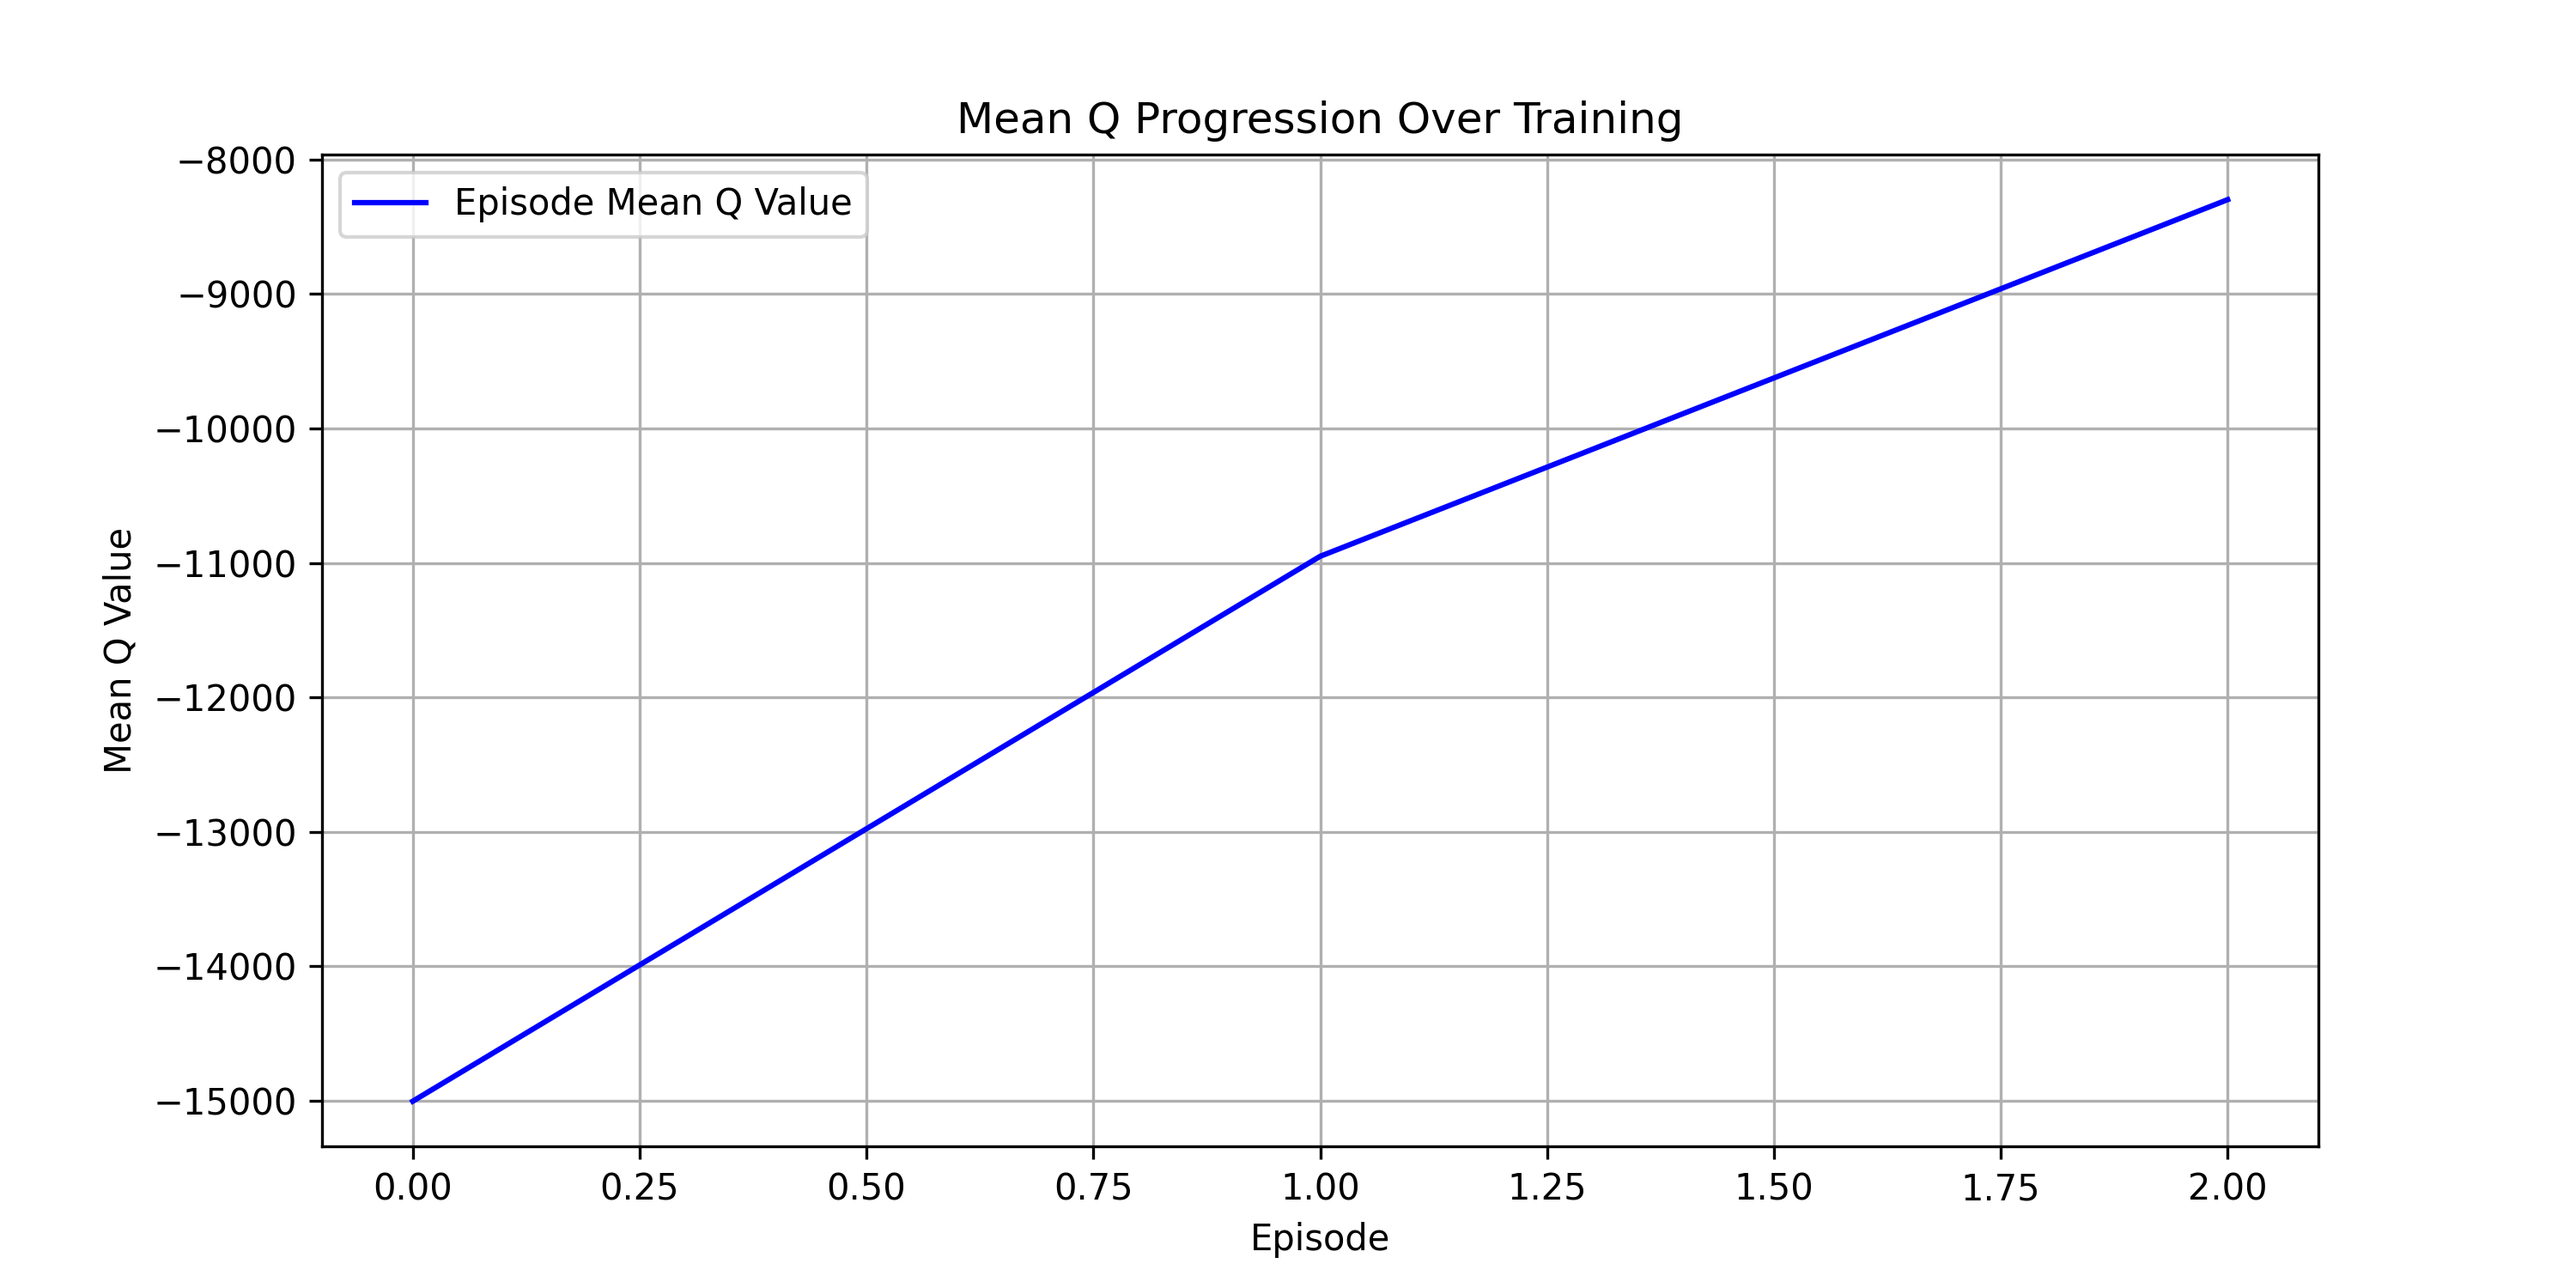
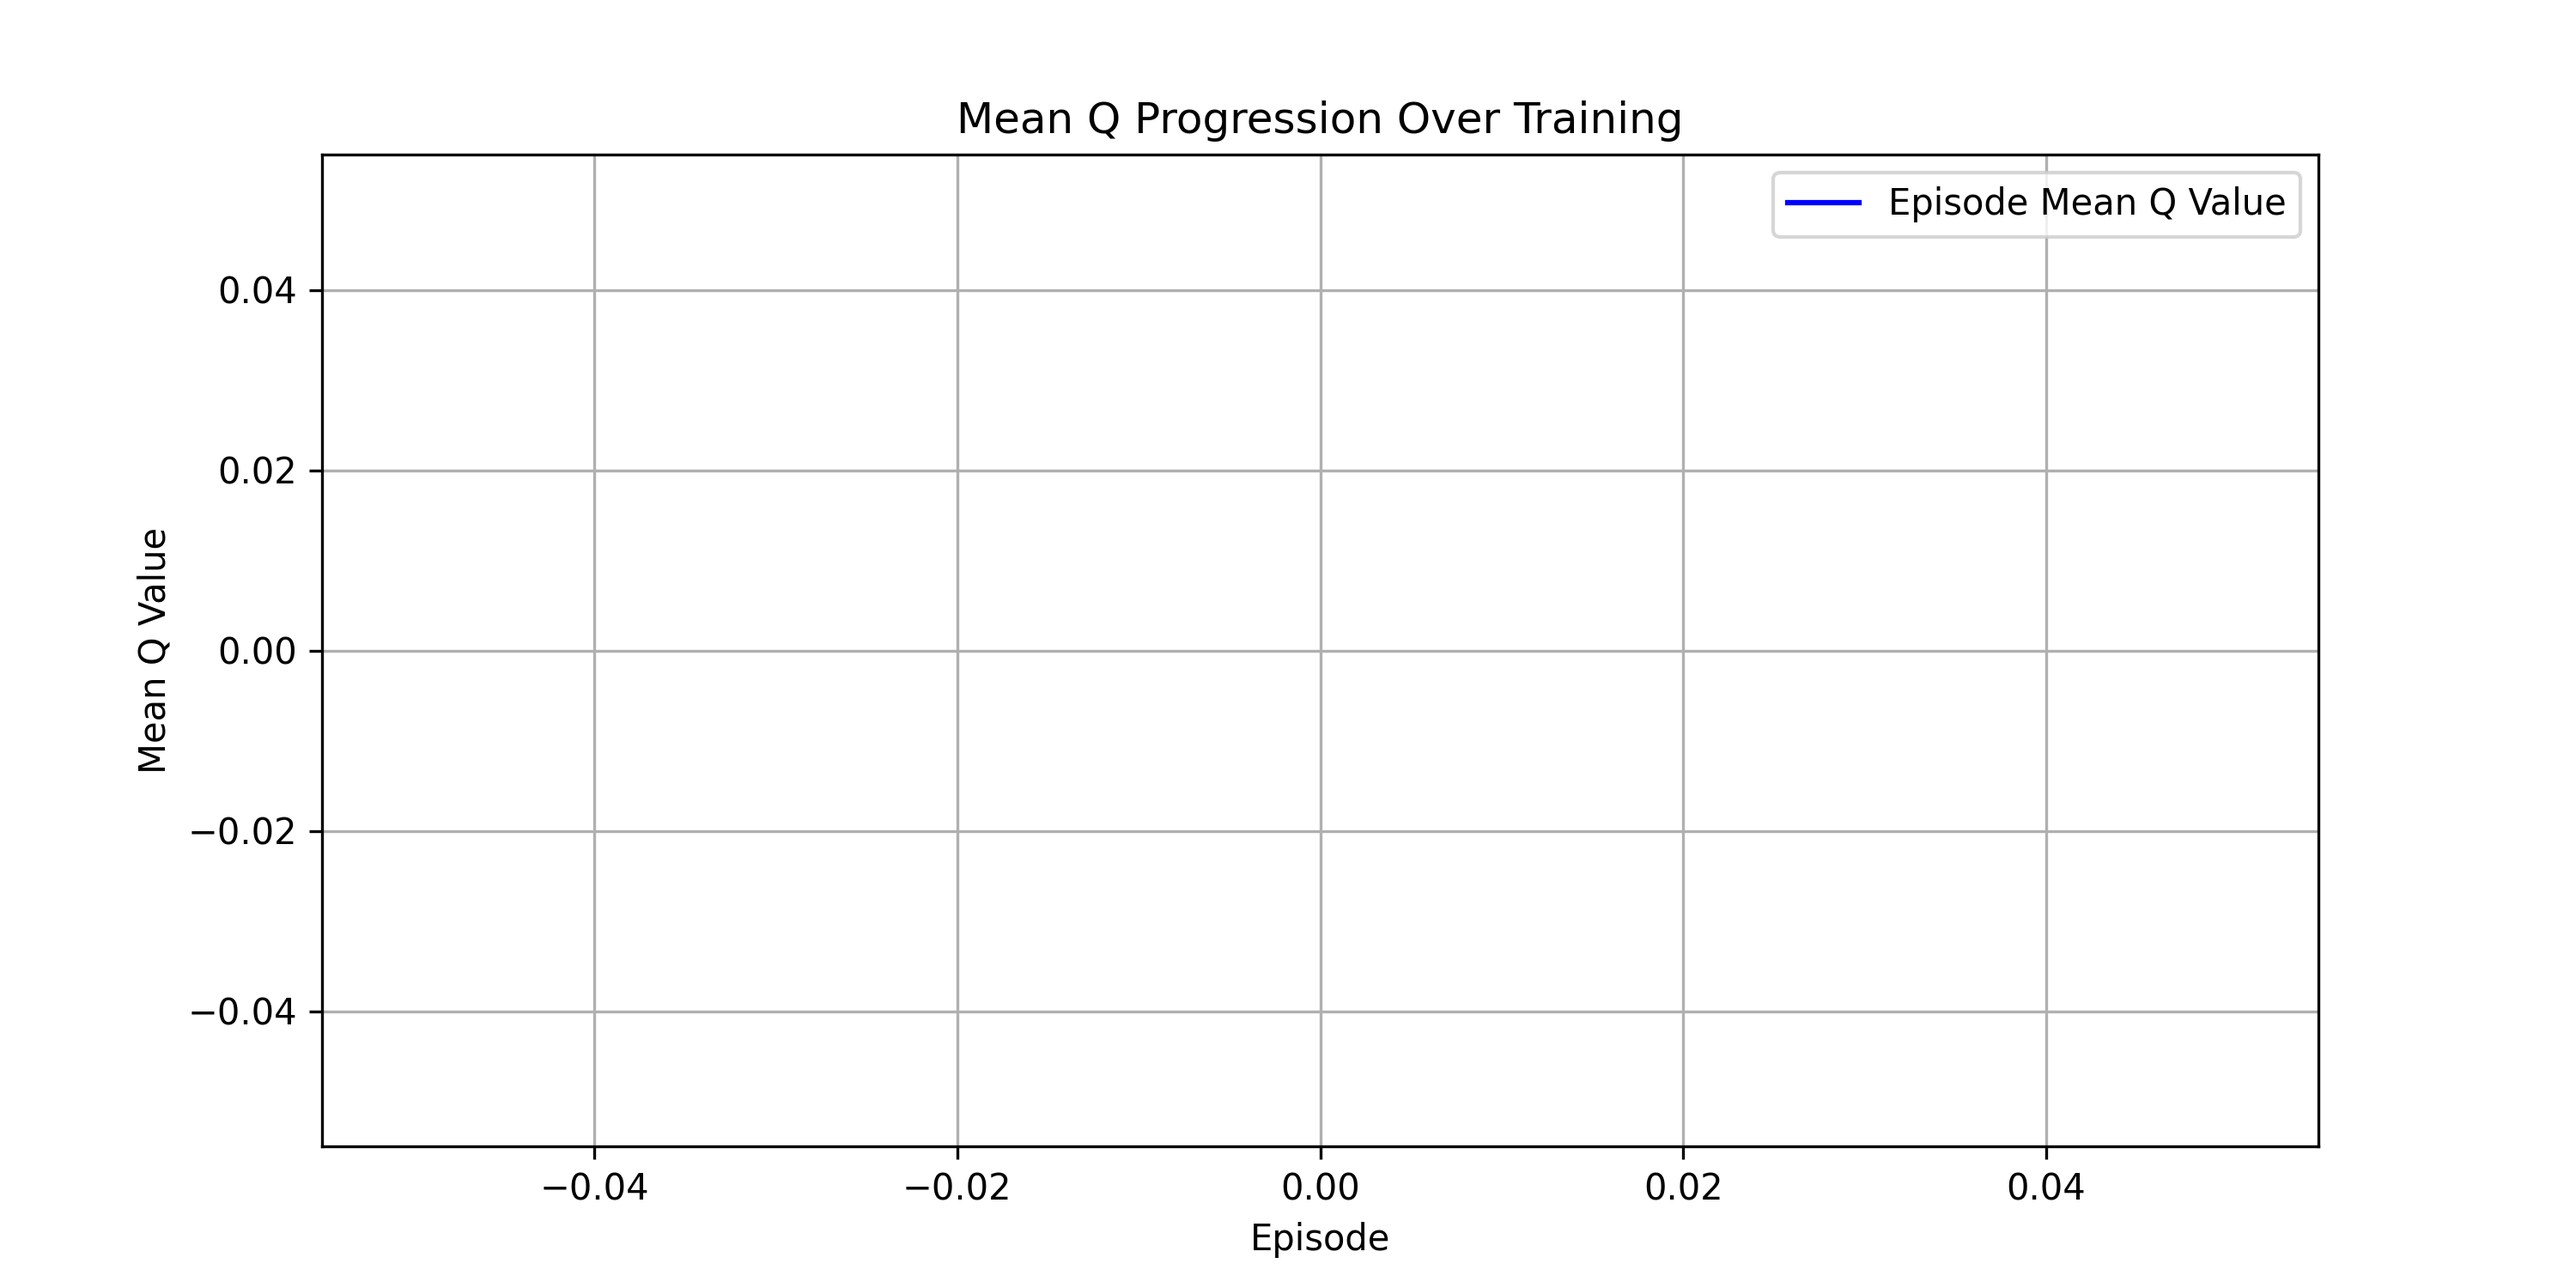
random errors i am unable to debug stupid baka life fr

diff --git a/Train.py b/Train.py
@@ -46,6 +46,7 @@ def build_dueling_model(states, actions):
 
     # Split into Value and Advantage Streams
     value = Dense(1, activation="linear")(x)  # V(s)
+    # print(actions)
     advantage = Dense(actions, activation="linear")(x)  # A(s, a)
 
     # Combine the two streams
@@ -160,12 +161,13 @@ class TrainingCallback(Callback):
         sys.exit(0)
     
     def on_episode_end(self, episode, logs={}):
+        print(logs)
         episode_reward = logs.get('episode_reward')
-        print("REWARD: ",episode_reward)
+        # print("REWARD: ",episode_reward)
         reward_history.append(episode_reward)
         mean_q = logs.get('mean_q')
-        print("MEAN Q: ", mean_q)
-        mean_q_history.append(mean_q)
+        # print("MEAN Q: ", mean_q)
+        # mean_q_history.append(mean_q)
         # episode_history.append(episode)
 
         if episode_reward > self.best_reward:
@@ -175,6 +177,7 @@ class TrainingCallback(Callback):
         
         if self.interrupted:
             self.model.stop_training = True
+    
 
 # Create callback
 training_callback = TrainingCallback()

diff --git a/TankGameEnv.py b/TankGameEnv.py
@@ -64,8 +64,8 @@ class TankEnv(Env):
 
         # Move forward, move backward, turn left, turn right,
         # turn turret left, turn turret right, shoot, do nothing
-        # self.action_space = Discrete(8)
-        self.action_space = Discrete(3)
+        self.action_space = Discrete(8)
+        # self.action_space = Discrete(3)
         self.skill_level = 0
         self.training_progress = 0
 
@@ -394,7 +394,7 @@ class TankEnv(Env):
     
     def get_all_info(self):
         # Instead of returning a tuple of different structures, create a flat numpy array
-        observation = np.zeros(10, dtype=np.float32)
+        observation = np.zeros(12, dtype=np.float32)
         
         # Player position (2 values)
         player_x, player_y = self.get_player_location()

diff --git a/meanq.py b/meanq.py
@@ -1,0 +1,1 @@
+meanq = [523.953, 390.449, 236.039, 163.202, 113.454, 100.813, 86.221, 65.698, 53.890, 47.561, 47.597]
